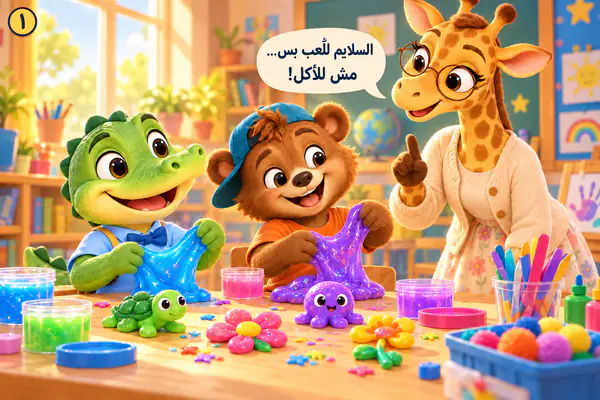
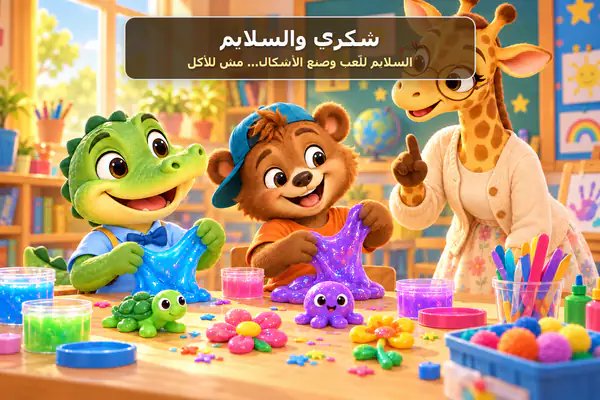
Unify story covers with story 5 template

diff --git a/bus/index.html b/bus/index.html
@@ -1,2 +1,1 @@
-<!doctype html><html lang="ar" dir="rtl"><head><meta charset="utf-8"><meta name="viewport" content="width=device-width,initial-scale=1"><meta http-equiv="Content-Security-Policy" content="default-src 'none'; style-src 'self'; script-src 'self' 'unsafe-inline'; img-src 'self'; base-uri 'none'; form-action 'none'"><link rel="stylesheet" href="../book.css"><title>توفيق وشكري وميعاد الباص</title></head><body><div class="shell"><div class="topbar"><a class="home" href="../">كل القصص</a><div class="story-name" id="storyName"></div></div><main class="book"><section class="stage"><div class="slide cover" id="cover"><img id="coverImage"><div class="cover-copy"><span class="kicker">قصة مصوّرة للأطفال</span><h1 id="title"></h1><p class="subtitle" id="subtitle"></p></div></div><img class="slide page-image" id="art" hidden></section><div class="controls"><button id="prev">→ السابق</button><div class="status"><strong id="label"></strong><span id="count"></span></div><button id="next">التالي ←</button></div><p class="tip">يمكنك استخدام مفاتيح الأسهم أو السحب على الشاشة.</p></main></div><script>window.STORY={title:'توفيق وشكري وميعاد الباص',subtitle:'قصة عن الاستعداد المبكر، والالتزام بالمواعيد، والسلامة.',cover:'../storybook-pages/01-evening-prep.webp',pages:Array.from({length:11},(_,i)=>{const names=['01-evening-prep','02-tawfik-on-time','03-driver-checks-safety','04-shokry-wakes-late','05-no-chasing-bus','06-school-kite-activity','07-shokry-sees-activity','08-tawfik-visits','09-preparation-checklist','10-shokry-on-time','11-safe-bus-ride'];return{src:`../storybook-pages/${names[i]}.webp`,alt:`المشهد ${i+1} من قصة ميعاد الباص`}})};</script><script src="../book.js"></script></body></html>
-
+<!doctype html><html lang="ar" dir="rtl"><head><meta charset="utf-8"><meta name="viewport" content="width=device-width,initial-scale=1"><meta http-equiv="Content-Security-Policy" content="default-src 'none'; style-src 'self'; script-src 'self' 'unsafe-inline'; img-src 'self'; base-uri 'none'; form-action 'none'"><link rel="stylesheet" href="../book.css"><title>توفيق وشكري وميعاد الباص</title></head><body><div class="shell"><div class="topbar"><a class="home" href="../">كل القصص</a><div class="story-name" id="storyName"></div></div><main class="book"><section class="stage"><div class="slide cover" id="cover"><img id="coverImage"><div class="cover-copy"><span class="kicker">قصة مصوّرة للأطفال</span><h1 id="title"></h1><p class="subtitle" id="subtitle"></p></div></div><img class="slide page-image" id="art" hidden></section><div class="controls"><button id="prev">→ السابق</button><div class="status"><strong id="label"></strong><span id="count"></span></div><button id="next">التالي ←</button></div><p class="tip">يمكنك استخدام مفاتيح الأسهم أو السحب على الشاشة.</p></main></div><script>window.STORY={title:'توفيق وشكري وميعاد الباص',subtitle:'قصة عن الاستعداد المبكر، والالتزام بالمواعيد، والسلامة.',cover:'cover.webp',pages:Array.from({length:11},(_,i)=>{const names=['01-evening-prep','02-tawfik-on-time','03-driver-checks-safety','04-shokry-wakes-late','05-no-chasing-bus','06-school-kite-activity','07-shokry-sees-activity','08-tawfik-visits','09-preparation-checklist','10-shokry-on-time','11-safe-bus-ride'];return{src:`../storybook-pages/${names[i]}.webp`,alt:`المشهد ${i+1} من قصة ميعاد الباص`}})};</script><script src="../book.js"></script></body></html>

diff --git a/sami/index.html b/sami/index.html
@@ -1,2 +1,1 @@
-<!doctype html><html lang="ar" dir="rtl"><head><meta charset="utf-8"><meta name="viewport" content="width=device-width,initial-scale=1"><meta http-equiv="Content-Security-Policy" content="default-src 'none'; style-src 'self'; script-src 'self' 'unsafe-inline'; img-src 'self'; base-uri 'none'; form-action 'none'"><link rel="stylesheet" href="../book.css"><title>قلم سامي وحدود الآخرين</title></head><body><div class="shell"><div class="topbar"><a class="home" href="../">كل القصص</a><div class="story-name" id="storyName"></div></div><main class="book"><section class="stage"><div class="slide cover" id="cover"><img id="coverImage"><div class="cover-copy"><span class="kicker">قصة مصوّرة للأطفال</span><h1 id="title"></h1><p class="subtitle" id="subtitle"></p></div></div><img class="slide page-image" id="art" hidden></section><div class="controls"><button id="prev">→ السابق</button><div class="status"><strong id="label"></strong><span id="count"></span></div><button id="next">التالي ←</button></div><p class="tip">يمكنك استخدام مفاتيح الأسهم أو السحب على الشاشة.</p></main></div><script>window.STORY={title:'قلم سامي وحدود الآخرين',subtitle:'قصة عن الاستئذان، وعدم التدخل، وحل الخلافات من غير عنف.',cover:'pages/01-three-friends.webp',pages:['01-three-friends','02-sami-asks','03-tawfik-agrees','04-shokry-jealous','05-shokry-interferes','06-tawfik-stops-him','07-teacher-listens','08-interference-lesson','09-no-harm-lesson','10-restorative-consequence','11-apology','12-asks-permission'].map((name,i)=>({src:`pages/${name}.webp`,alt:`المشهد ${i+1} من قصة قلم سامي`}))};</script><script src="../book.js"></script></body></html>
-
+<!doctype html><html lang="ar" dir="rtl"><head><meta charset="utf-8"><meta name="viewport" content="width=device-width,initial-scale=1"><meta http-equiv="Content-Security-Policy" content="default-src 'none'; style-src 'self'; script-src 'self' 'unsafe-inline'; img-src 'self'; base-uri 'none'; form-action 'none'"><link rel="stylesheet" href="../book.css"><title>قلم سامي وحدود الآخرين</title></head><body><div class="shell"><div class="topbar"><a class="home" href="../">كل القصص</a><div class="story-name" id="storyName"></div></div><main class="book"><section class="stage"><div class="slide cover" id="cover"><img id="coverImage"><div class="cover-copy"><span class="kicker">قصة مصوّرة للأطفال</span><h1 id="title"></h1><p class="subtitle" id="subtitle"></p></div></div><img class="slide page-image" id="art" hidden></section><div class="controls"><button id="prev">→ السابق</button><div class="status"><strong id="label"></strong><span id="count"></span></div><button id="next">التالي ←</button></div><p class="tip">يمكنك استخدام مفاتيح الأسهم أو السحب على الشاشة.</p></main></div><script>window.STORY={title:'قلم سامي وحدود الآخرين',subtitle:'قصة عن الاستئذان، وعدم التدخل، وحل الخلافات من غير عنف.',cover:'cover.webp',pages:['01-three-friends','02-sami-asks','03-tawfik-agrees','04-shokry-jealous','05-shokry-interferes','06-tawfik-stops-him','07-teacher-listens','08-interference-lesson','09-no-harm-lesson','10-restorative-consequence','11-apology','12-asks-permission'].map((name,i)=>({src:`pages/${name}.webp`,alt:`المشهد ${i+1} من قصة قلم سامي`}))};</script><script src="../book.js"></script></body></html>

diff --git a/jacket/index.html b/jacket/index.html
@@ -1,2 +1,1 @@
-<!doctype html><html lang="ar" dir="rtl"><head><meta charset="utf-8"><meta name="viewport" content="width=device-width,initial-scale=1"><meta http-equiv="Content-Security-Policy" content="default-src 'none'; style-src 'self'; script-src 'self' 'unsafe-inline'; img-src 'self'; base-uri 'none'; form-action 'none'"><link rel="stylesheet" href="../book.css"><title>توفيق والجاكيت المنسي</title></head><body><div class="shell"><div class="topbar"><a class="home" href="../">كل القصص</a><div class="story-name" id="storyName"></div></div><main class="book"><section class="stage"><div class="slide cover" id="cover"><img id="coverImage"><div class="cover-copy"><span class="kicker">قصة مصوّرة للأطفال</span><h1 id="title"></h1><p class="subtitle" id="subtitle"></p></div></div><img class="slide page-image" id="art" hidden></section><div class="controls"><button id="prev">→ السابق</button><div class="status"><strong id="label"></strong><span id="count"></span></div><button id="next">التالي ←</button></div><p class="tip">يمكنك استخدام مفاتيح الأسهم أو السحب على الشاشة.</p></main></div><script>window.STORY={title:'توفيق والجاكيت المنسي',subtitle:'قصة عن الهدوء عند نسيان الأشياء، وكتابة الاسم عليها، ومراجعة الحقيبة قبل المغادرة.',cover:'pages/01-forgot-jacket.webp',pages:['01-forgot-jacket','02-family-reassurance','03-checklist','04-jacket-found'].map((name,i)=>({src:`pages/${name}.webp`,alt:`المشهد ${i+1} من قصة توفيق والجاكيت المنسي`}))};</script><script src="../book.js"></script></body></html>
-
+<!doctype html><html lang="ar" dir="rtl"><head><meta charset="utf-8"><meta name="viewport" content="width=device-width,initial-scale=1"><meta http-equiv="Content-Security-Policy" content="default-src 'none'; style-src 'self'; script-src 'self' 'unsafe-inline'; img-src 'self'; base-uri 'none'; form-action 'none'"><link rel="stylesheet" href="../book.css"><title>توفيق والجاكيت المنسي</title></head><body><div class="shell"><div class="topbar"><a class="home" href="../">كل القصص</a><div class="story-name" id="storyName"></div></div><main class="book"><section class="stage"><div class="slide cover" id="cover"><img id="coverImage"><div class="cover-copy"><span class="kicker">قصة مصوّرة للأطفال</span><h1 id="title"></h1><p class="subtitle" id="subtitle"></p></div></div><img class="slide page-image" id="art" hidden></section><div class="controls"><button id="prev">→ السابق</button><div class="status"><strong id="label"></strong><span id="count"></span></div><button id="next">التالي ←</button></div><p class="tip">يمكنك استخدام مفاتيح الأسهم أو السحب على الشاشة.</p></main></div><script>window.STORY={title:'توفيق والجاكيت المنسي',subtitle:'قصة عن الهدوء عند نسيان الأشياء، وكتابة الاسم عليها، ومراجعة الحقيبة قبل المغادرة.',cover:'cover.webp',pages:['01-forgot-jacket','02-family-reassurance','03-checklist','04-jacket-found'].map((name,i)=>({src:`pages/${name}.webp`,alt:`المشهد ${i+1} من قصة توفيق والجاكيت المنسي`}))};</script><script src="../book.js"></script></body></html>

diff --git a/slime/index.html b/slime/index.html
@@ -1,2 +1,1 @@
-<!doctype html><html lang="ar" dir="rtl"><head><meta charset="utf-8"><meta name="viewport" content="width=device-width,initial-scale=1"><meta http-equiv="Content-Security-Policy" content="default-src 'none'; style-src 'self'; script-src 'self' 'unsafe-inline'; img-src 'self'; base-uri 'none'; form-action 'none'"><link rel="stylesheet" href="../book.css"><title>شكري والسلايم</title></head><body><div class="shell"><div class="topbar"><a class="home" href="../">كل القصص</a><div class="story-name" id="storyName"></div></div><main class="book"><section class="stage"><div class="slide cover" id="cover"><img id="coverImage"><div class="cover-copy"><span class="kicker">قصة مصوّرة للأطفال</span><h1 id="title"></h1><p class="subtitle" id="subtitle"></p></div></div><img class="slide page-image" id="art" hidden></section><div class="controls"><button id="prev">→ السابق</button><div class="status"><strong id="label"></strong><span id="count"></span></div><button id="next">التالي ←</button></div><p class="tip">يمكنك استخدام مفاتيح الأسهم أو السحب على الشاشة.</p></main></div><script>window.STORY={title:'شكري والسلايم',subtitle:'السلايم للّعب وصنع الأشكال… وليس للأكل.',cover:'pages/01-art-class-numbered.webp',pages:['01-art-class-numbered','02-tawfik-warning-numbered','03-stomach-ache-numbered','04-tell-teacher-numbered','05-hospital-numbered','06-home-visit-numbered'].map((name,i)=>({src:`pages/${name}.webp`,alt:`المشهد ${i+1} من قصة شكري والسلايم`}))};</script><script src="../book.js"></script></body></html>
-
+<!doctype html><html lang="ar" dir="rtl"><head><meta charset="utf-8"><meta name="viewport" content="width=device-width,initial-scale=1"><meta http-equiv="Content-Security-Policy" content="default-src 'none'; style-src 'self'; script-src 'self' 'unsafe-inline'; img-src 'self'; base-uri 'none'; form-action 'none'"><link rel="stylesheet" href="../book.css"><title>شكري والسلايم</title></head><body><div class="shell"><div class="topbar"><a class="home" href="../">كل القصص</a><div class="story-name" id="storyName"></div></div><main class="book"><section class="stage"><div class="slide cover" id="cover"><img id="coverImage"><div class="cover-copy"><span class="kicker">قصة مصوّرة للأطفال</span><h1 id="title"></h1><p class="subtitle" id="subtitle"></p></div></div><img class="slide page-image" id="art" hidden></section><div class="controls"><button id="prev">→ السابق</button><div class="status"><strong id="label"></strong><span id="count"></span></div><button id="next">التالي ←</button></div><p class="tip">يمكنك استخدام مفاتيح الأسهم أو السحب على الشاشة.</p></main></div><script>window.STORY={title:'شكري والسلايم',subtitle:'السلايم للّعب وصنع الأشكال… وليس للأكل.',cover:'cover.webp',pages:['01-art-class-numbered','02-tawfik-warning-numbered','03-stomach-ache-numbered','04-tell-teacher-numbered','05-hospital-numbered','06-home-visit-numbered'].map((name,i)=>({src:`pages/${name}.webp`,alt:`المشهد ${i+1} من قصة شكري والسلايم`}))};</script><script src="../book.js"></script></body></html>

diff --git a/book.css b/book.css
@@ -13,9 +13,9 @@ body{display:grid;place-items:center;padding:14px}
 @keyframes spin{to{transform:rotate(360deg)}}
 .slide{position:absolute;inset:0;width:100%;height:100%}
 .page-image{object-fit:contain;background:#191714}
-.cover img{width:100%;height:100%;object-fit:cover;filter:brightness(.6) saturate(1.1)}
-.cover::after{content:"";position:absolute;inset:0;background:linear-gradient(90deg,#07101fcc 0,#07101f55 60%,transparent)}
-.cover-copy{position:absolute;z-index:2;inset:0;display:flex;flex-direction:column;justify-content:center;align-items:flex-start;text-align:right;padding:clamp(24px,6vw,70px);max-width:72%}
+.cover img{width:100%;height:100%;object-fit:cover}
+.cover::after{display:none}
+.cover-copy{display:none}
 .kicker{color:var(--gold);font-weight:800;font-size:clamp(14px,2vw,22px)}
 h1{font-size:clamp(30px,6vw,68px);line-height:1.05;margin:.25em 0;text-wrap:balance}
 .subtitle{font-size:clamp(14px,2vw,24px);line-height:1.6;color:#eee;max-width:650px}
@@ -33,8 +33,6 @@ h1{font-size:clamp(30px,6vw,68px);line-height:1.05;margin:.25em 0;text-wrap:bala
   .book{border-radius:18px;padding:8px}
   .stage{aspect-ratio:3/4;box-shadow:6px 6px 0 #756c5b,10px 10px 0 #4f493e}
   .page-image{object-fit:contain}
-  .cover-copy{max-width:92%;padding:24px}
-  .cover::after{background:linear-gradient(0deg,#07101fe8 0,#07101f55 72%,transparent)}
   h1{font-size:clamp(34px,11vw,56px)}
   .controls{grid-template-columns:1fr 1fr;margin-top:20px}
   .status{grid-column:1/-1;grid-row:1}
